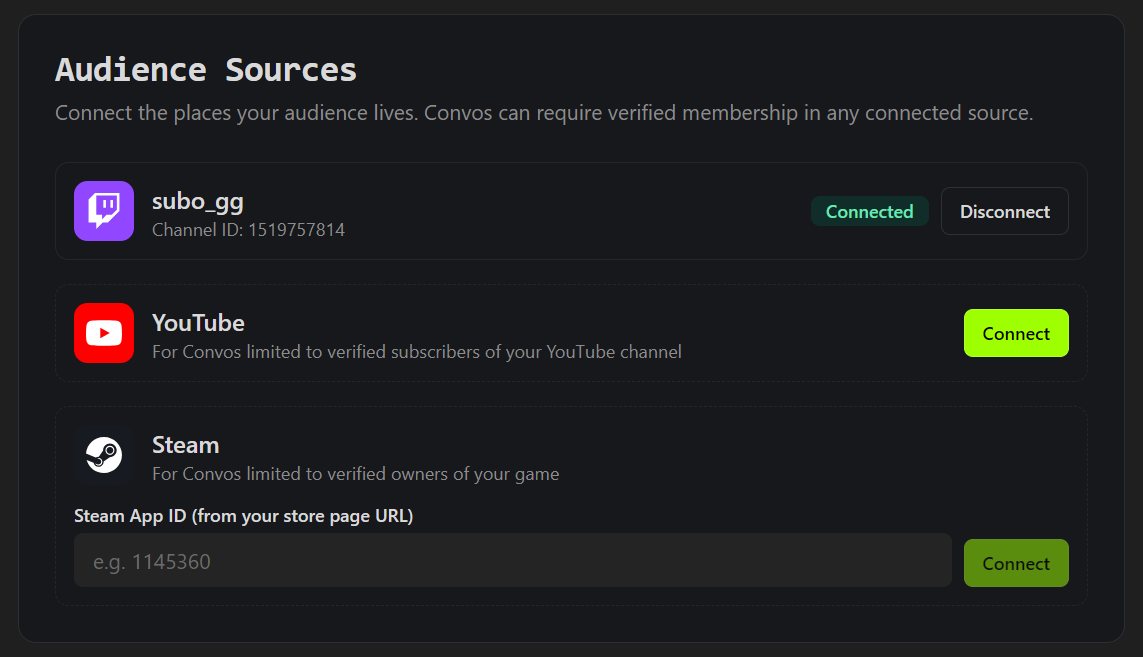
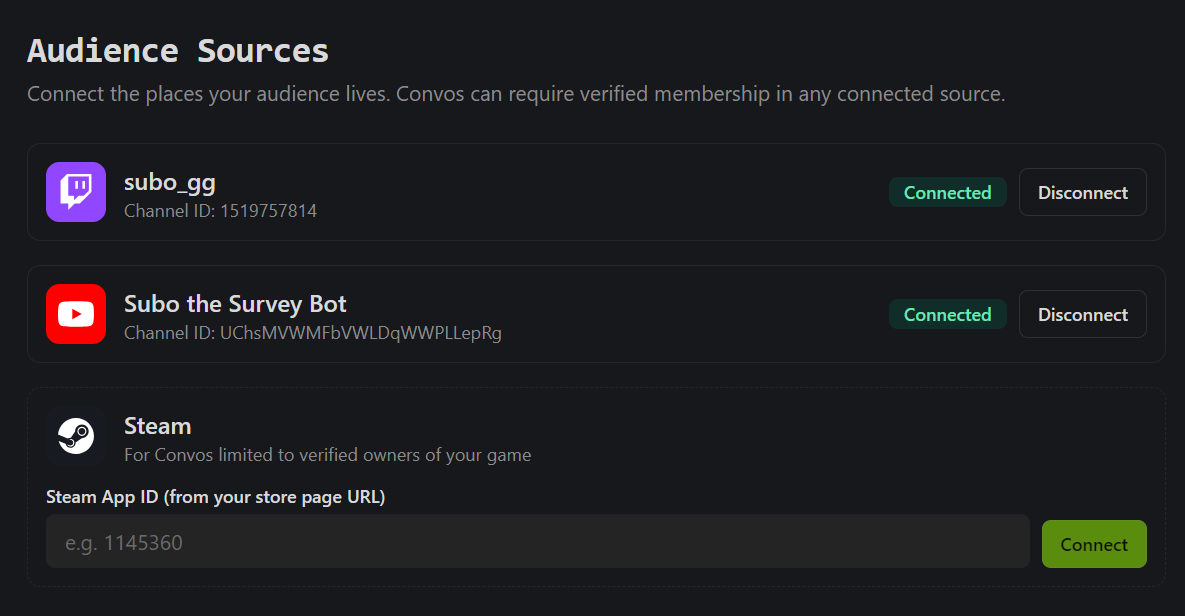
feat(blog): Audience Sources screenshot with YouTube connected
Claude-Session: https://claude.ai/code/session_018hWSESFmczffmU7s3oHtkv

diff --git a/src/content/blog/survey-twitch-youtube-discord-one-link.md b/src/content/blog/survey-twitch-youtube-discord-one-link.md
@@ -66,7 +66,7 @@ Want to connect other platforms? Let us know in our [Support Server](https://sub
 
 A channel can be connected to one community only, and you can disconnect a source at any time.
 
-![Settings > Networks > Audience Sources: a Twitch channel connected, with YouTube and Steam ready to connect](/images/blog/ways-in/ways-in-audience-sources.png)
+![Settings > Networks > Audience Sources: a Twitch channel and a YouTube channel connected, with Steam ready to connect](/images/blog/ways-in/ways-in-audience-sources.png)
 
 ## What respondents see
 
